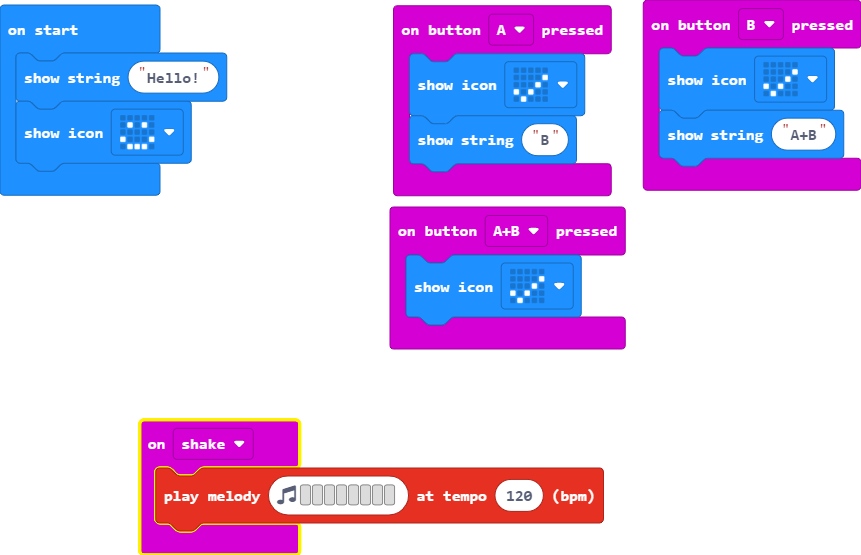
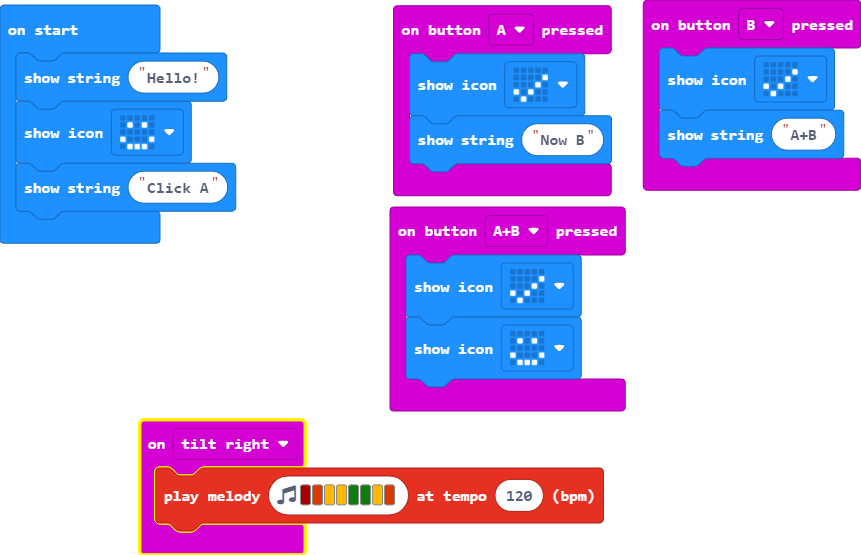
Update main.blocks, main.ts

diff --git a/main.ts b/main.ts
@@ -1,16 +1,18 @@
 input.onButtonPressed(Button.A, function () {
     basic.showIcon(IconNames.Yes)
-    basic.showString("B")
+    basic.showString("Now B")
 })
 input.onButtonPressed(Button.AB, function () {
     basic.showIcon(IconNames.Yes)
+    basic.showIcon(IconNames.Happy)
 })
 input.onButtonPressed(Button.B, function () {
     basic.showIcon(IconNames.Yes)
     basic.showString("A+B")
 })
-input.onGesture(Gesture.Shake, function () {
-    music.playMelody("- - - - - - - - ", 120)
+input.onGesture(Gesture.TiltRight, function () {
+    music.playMelody("C5 B A A G G A B ", 120)
 })
 basic.showString("Hello!")
 basic.showIcon(IconNames.Happy)
+basic.showString("Click A")
